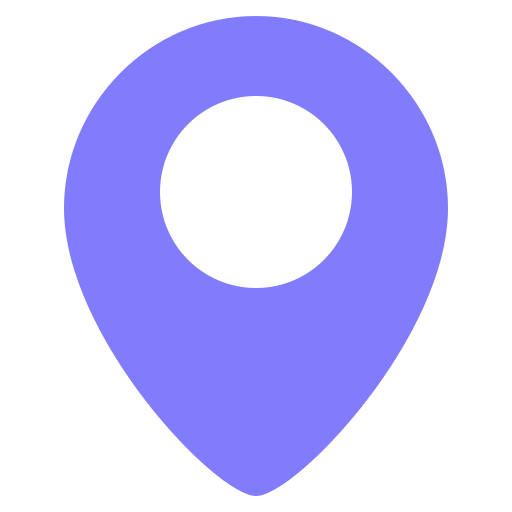
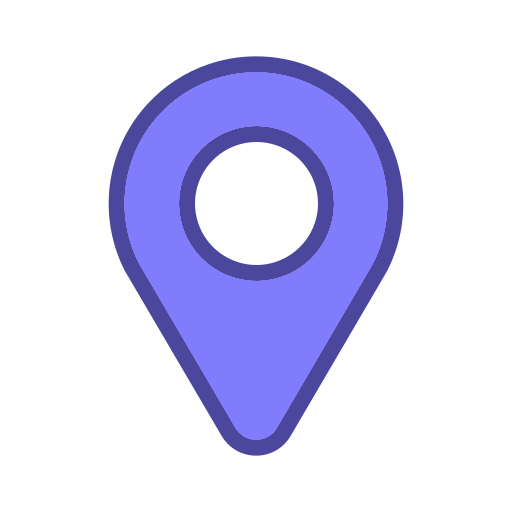
[S07P22D104-234] feat: 지도 마커 클릭하면 해당 가게 정보로 변경

diff --git a/frontend/src/components/Recommend/Category/Detail/Map/StoreMap.jsx b/frontend/src/components/Recommend/Category/Detail/Map/StoreMap.jsx
@@ -1,33 +1,22 @@
 import { useMemo, useState } from 'react';
 import { useRecommendContext } from 'components/Recommend/Context/RecommendContext';
+import { setCurrentStore as activityStore } from 'components/Recommend/Context/activityReducer';
+import { setCurrentStore as foodStore } from 'components/Recommend/Context/foodReducer';
 import { Map, MapMarker } from 'react-kakao-maps-sdk';
 import StoreInfo from './StoreInfo';
 import StoreInfoDrawer from './StoreInfoDrawer';
 import marker from 'assets/images/marker.png';
 import marker_active from 'assets/images/marker-active.png';
-
-function getMarkers(index, list) {
-  const lat = index === 1 ? 'foodLatitude' : 'activityLatitude';
-  const lng = index === 1 ? 'foodLongitude' : 'activityLongitude';
-
-  return list.map((item) => {
-    const pos = { lat: item[lat], lng: item[lng] };
-
-    return (
-      <MapMarker
-        key={`${item[lat]}-${item[lng]}`}
-        position={pos}
-        image={{ src: marker, size: { width: 30, height: 30 } }}
-      />
-    );
-  });
-}
+import marker_my from 'assets/images/marker-my.png';
 
 export default function StoreMap({ list }) {
   const currentPos = JSON.parse(localStorage.getItem('current'));
   const [open, setOpen] = useState(false);
   const { index } = useRecommendContext().state.indexReducer;
-  const markers = useMemo(() => getMarkers(index, list), [index, list]);
+  const type = useMemo(() => (index === 1 ? 'food' : 'activity'), [index]);
+  const { store } = useRecommendContext().state[type + 'Reducer'];
+  const { dispatch } = useRecommendContext();
+  const markers = useMemo(() => getMarkers(list, type, store), [list, type, store]);
 
   const toggleDrawer = (state) => (event) => {
     if (
@@ -41,12 +30,49 @@ export default function StoreMap({ list }) {
     setOpen(state);
   };
 
+  function handleClickMarker(item) {
+    const actionCreator = index === 1 ? foodStore : activityStore;
+    dispatch(actionCreator(item));
+  }
+
+  function getMarkers(list, type, store) {
+    const id = type + 'Id';
+    const lat = type + 'Latitude';
+    const lng = type + 'Longitude';
+  
+    return list.map((item) => {
+      const pos = { lat: item[lat], lng: item[lng] };
+      const src = store[id] === item[id] ? marker_active : marker;
+      const size =
+        store[id] === item[id]
+          ? { width: 45, height: 45 }
+          : { width: 32, height: 32 };
+  
+      return (
+        <MapMarker
+          key={`${item[lat]}-${item[lng]}`}
+          position={pos}
+          image={{ src: src, size: size }}
+          clickable={true}
+          onClick={() => handleClickMarker(item)}
+        />
+      );
+    });
+  };
+
   return (
     <div className="category-store-map">
-      <Map className="category-store-map__map" center={currentPos} level={3}>
+      <Map
+        className="category-store-map__map"
+        center={{
+          lat: store[type + 'Latitude'],
+          lng: store[type + 'Longitude'],
+        }}
+        level={3}
+      >
         <MapMarker
           position={currentPos}
-          image={{ src: marker, size: { width: 20, height: 20 } }}
+          image={{ src: marker_my, size: { width: 35, height: 35 } }}
         />
         {markers}
       </Map>

diff --git a/frontend/src/components/Recommend/Category/Detail/index.jsx b/frontend/src/components/Recommend/Category/Detail/index.jsx
@@ -1,5 +1,8 @@
+import { useEffect, useState } from 'react';
+import { useRecommendContext } from 'components/Recommend/Context/RecommendContext';
+import { setCurrentStore as activityStore } from 'components/Recommend/Context/activityReducer';
+import { setCurrentStore as foodStore } from 'components/Recommend/Context/foodReducer';
 import styled from '@emotion/styled';
-import { useState } from 'react';
 import { Drawer } from '@mui/material';
 import Title from './Title';
 import CategoryStoreList from './List/StoreList';
@@ -60,6 +63,8 @@ const list = [
 
 export default function CategoryDetail({ current, open, handleClose }) {
   const [isList, setIsList] = useState(true);
+  const {dispatch} = useRecommendContext();
+  const { index } = useRecommendContext().state.indexReducer;
 
   const ToggleDrawer = () => {
     setIsList(true);
@@ -69,6 +74,12 @@ export default function CategoryDetail({ current, open, handleClose }) {
   const handleClick = () => {
     setIsList(!isList);
   };
+
+  useEffect(() => {
+    const actionCreator = index === 1 ? foodStore : activityStore;
+    dispatch(actionCreator(list[0]));
+  }, [])
+  
 
   return (
     <CustomDrawer anchor="right" open={open} onClose={ToggleDrawer}>

diff --git a/frontend/src/components/Recommend/Category/Detail/Map/StoreInfo.jsx b/frontend/src/components/Recommend/Category/Detail/Map/StoreInfo.jsx
@@ -1,11 +1,17 @@
+import { useMemo } from 'react';
+import { useRecommendContext } from 'components/Recommend/Context/RecommendContext';
 import Rating from '@mui/material/Rating';
 import OpenClosed from '../OpenClosed';
 
 export default function StoreInfo({ toggleDrawer }) {
+  const { index } = useRecommendContext().state.indexReducer;
+  const type = useMemo(() => (index === 1 ? 'food' : 'activity'), [index]);
+  const { store } = useRecommendContext().state[type + 'Reducer'];
+
   return (
     <div className="store-info" onClick={toggleDrawer(true)}>
       <div className="store-info__top">
-        <span className="top__title">XX 만두가게</span>
+        <span className="top__title">{store[type+'Name']}</span>
       </div>
       <div className="store-info__scope">
         <span>2.5</span>
@@ -18,7 +24,7 @@ export default function StoreInfo({ toggleDrawer }) {
         />
         <OpenClosed />
       </div>
-      <div className="store-info__address">대구광역시 중구 동인동</div>
+      <div className="store-info__address">{store[type+'Address']}</div>
     </div>
   );
 }

diff --git a/frontend/src/components/Recommend/Category/Detail/List/StoreItem.jsx b/frontend/src/components/Recommend/Category/Detail/List/StoreItem.jsx
@@ -1,7 +1,7 @@
 import styled from '@emotion/styled';
 import sample from 'assets/images/sample.jpg';
-import { setCurrentActivity } from 'components/Recommend/Context/activityReducer';
-import { setCurrentFood } from 'components/Recommend/Context/foodReducer';
+import { setCurrentStore as activityStore } from 'components/Recommend/Context/activityReducer';
+import { setCurrentStore as foodStore } from 'components/Recommend/Context/foodReducer';
 import { useRecommendContext } from 'components/Recommend/Context/RecommendContext';
 
 const Col = styled('div')`
@@ -12,10 +12,10 @@ const Col = styled('div')`
 
 export default function StoreItem({ item, handleClick }) {
   const { state, dispatch } = useRecommendContext();
-  const { index } = state;
+  const { index } = state.indexReducer;
 
   const handleItemClick = () => {
-    const actionCreator = index === 1 ? setCurrentFood : setCurrentActivity;
+    const actionCreator = index === 1 ? foodStore : activityStore;
     dispatch(actionCreator(item));
     handleClick();
   };

diff --git a/frontend/src/components/Recommend/Context/activityReducer.js b/frontend/src/components/Recommend/Context/activityReducer.js
@@ -4,11 +4,13 @@ const SET_ACTIVITY_LIST = 'activity/list';
 const SET_CURRENT_ACTIVITY = 'activity/current';
 const ADD_LIKE_ACTIVITY = 'activity/like';
 const ADD_DISLIKE_ACTIVITY = 'activity/dislike';
+const SET_CURRENT_STORE = 'activity/store';
 
 /* 액션 생성 함수 */
 export const refreshActivityList = () => ({
   type: REFRESH_ACTIVITY_LIST,
 });
+
 export const setActivityList = (list) => ({
   type: SET_ACTIVITY_LIST,
   list,
@@ -29,6 +31,11 @@ export const addDislikeACTIVITY = (activity) => ({
   activity,
 });
 
+export const setCurrentStore = (store) => ({
+  type: SET_CURRENT_STORE,
+  store,
+});
+
 /* 리듀서 정의 */
 export function activityReducer(state, action) {
   switch (action.type) {
@@ -42,6 +49,8 @@ export function activityReducer(state, action) {
       return state;
     case ADD_DISLIKE_ACTIVITY:
       return state;
+    case SET_CURRENT_STORE:
+      return { ...state, store: action.store };
     default:
       return state;
   }

diff --git a/frontend/src/components/Recommend/Context/foodReducer.js b/frontend/src/components/Recommend/Context/foodReducer.js
@@ -4,6 +4,7 @@ const SET_FOOD_LIST = 'food/list';
 const SET_CURRENT_FOOD = 'food/current';
 const ADD_LIKE_FOOD = 'food/like';
 const ADD_DISLIKE_FOOD = 'food/dislike';
+const SET_CURRENT_STORE = 'food/store';
 
 /* 액션 생성 함수 */
 export const refreshFoodList = () => ({
@@ -30,6 +31,11 @@ export const addDislikeFood = (food) => ({
   food,
 });
 
+export const setCurrentStore = (store) => ({
+  type: SET_CURRENT_STORE,
+  store,
+});
+
 /* 리듀서 정의 */
 export function foodReducer(state, action) {
   switch (action.type) {
@@ -43,6 +49,8 @@ export function foodReducer(state, action) {
       return state;
     case ADD_DISLIKE_FOOD:
       return state;
+    case SET_CURRENT_STORE:
+      return { ...state, store: action.store };
     default:
       return state;
   }
